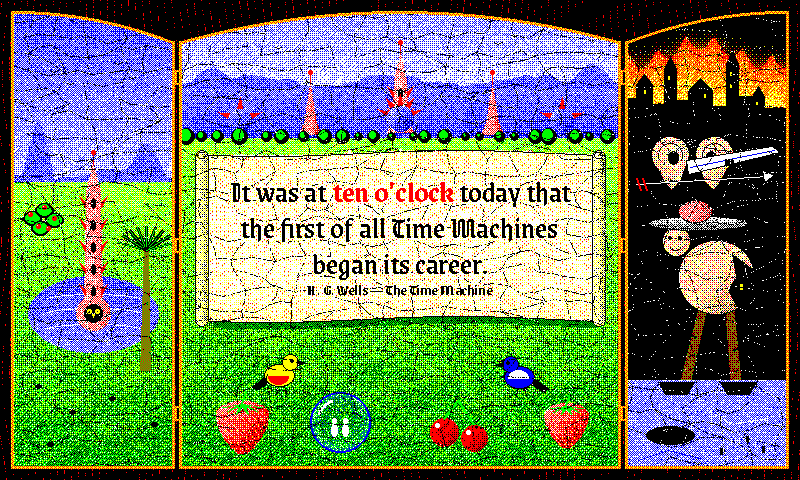
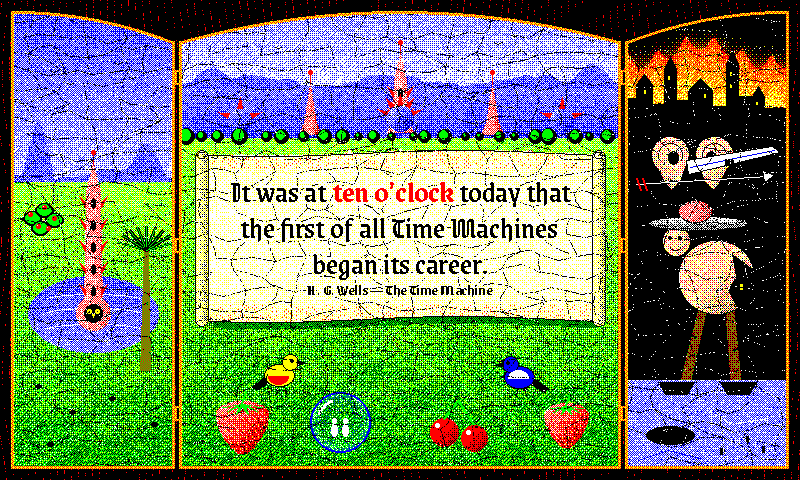
bosch: clamp the jittered rank field and publish it atomically
Review fixes. Unclamped, the +/-9 jitter pushed ranks to -9..72, so
zero-share inks still painted (~4%) and the parchment's edge test fired
on the scroll centreline, flecking 3.4% red behind the rubricated phrase.
The field was also filled in place, so concurrent preview threads could
read it half-built. Clamp to 0..63, build locally, assign once. Adds two
regression tests; golden and preview regenerated.

Claude-Session: https://claude.ai/code/session_01Vsfgqonbcy8RhjzHY72hf4

diff --git a/idle_hours/render_quote.py b/idle_hours/render_quote.py
@@ -24837,10 +24837,10 @@ _BOSCH_CRACK_SEED = 0xB05C
 _BOSCH_JITTER = 9                # ± ranks of positional jitter on the 8x8 tile
 
 
-_BOSCH_RANK_FIELD: list[bytes] = []
+_BOSCH_RANK_FIELD: tuple[bytes, ...] = ()
 
 
-def _bosch_rank_field() -> list[bytes]:
+def _bosch_rank_field() -> tuple[bytes, ...]:
     """The 8x8 Bayer rank plus a seeded jitter, for the whole canvas, once.
 
     The ``bakelite`` moulding recipe — ordered dither with its rank nudged by
@@ -24848,18 +24848,31 @@ def _bosch_rank_field() -> list[bytes]:
     ``Random.randbytes`` field rather than a ``position_noise`` call per
     pixel: this frame reads ~450k ranks per render, and a Python call each
     was a fifth of the render time (``tarot``'s vellum made the same move for
-    the same reason). Stored offset by ``_BOSCH_JITTER`` so it fits in bytes;
-    readers subtract it. Seeded, so the frame stays byte-identical across
+    the same reason). Seeded, so the frame stays byte-identical across
     processes where ``hash()`` would not.
+
+    **Clamped to 0..63.** Unclamped, the jitter pushes ~4% of ranks below 0
+    and ~4% to 64 or above, so a share of exactly 0 still painted its ink
+    (white specks in the meadow's dark foot) and a test like ``rank > 63``
+    fired on the scroll's centreline, flecking the parchment red behind the
+    rubricated phrase. With the clamp, share 0 means none and share 1 means
+    all, which is what every ``_bosch_pick`` call assumes.
+
+    Built into a local and published in one assignment: the curator UI
+    renders previews on concurrent threads, and a list filled in place could
+    be read half-built by a second thread.
     """
-    if not _BOSCH_RANK_FIELD:
+    global _BOSCH_RANK_FIELD
+    field = _BOSCH_RANK_FIELD
+    if not field:
         noise = random.Random(_BOSCH_CRACK_SEED ^ 0x5A5A).randbytes(800 * 480)
-        span = 2 * _BOSCH_JITTER + 1
-        for y in range(480):
-            row = BAYER_8x8[y % 8]
-            base = y * 800
-            _BOSCH_RANK_FIELD.append(bytes(row[x % 8] + noise[base + x] % span for x in range(800)))
-    return _BOSCH_RANK_FIELD
+        span, j = 2 * _BOSCH_JITTER + 1, _BOSCH_JITTER
+        field = tuple(
+            bytes(min(63, max(0, BAYER_8x8[y % 8][x % 8] + noise[y * 800 + x] % span - j)) for x in range(800))
+            for y in range(480)
+        )
+        _BOSCH_RANK_FIELD = field
+    return field
 
 
 def _bosch_pick(rank: int, parts):
@@ -24886,12 +24899,12 @@ def _bosch_paint(tile: Image.Image, mask: Image.Image, shade) -> None:
         return
     px, mp = tile.load(), mask.load()
     ox, oy = getattr(tile, "_bosch_origin", (0, 0))
-    field, j = _bosch_rank_field(), _BOSCH_JITTER
+    field = _bosch_rank_field()
     for y in range(bbox[1], bbox[3]):
         ranks = field[(y + oy) % 480]
         for x in range(bbox[0], bbox[2]):
             if mp[x, y] > 127:
-                ink = shade(x, y, ranks[(x + ox) % 800] - j)
+                ink = shade(x, y, ranks[(x + ox) % 800])
                 if ink is not None:
                     px[x, y] = ink
 
@@ -25002,7 +25015,7 @@ def _bosch_meadow(tile, top: int) -> None:
     white, yellow, green, black = (_bosch_ink(n) for n in ("white", "yellow", "green", "black"))
     px = tile.load()
     ox, oy = getattr(tile, "_bosch_origin", (0, 0))
-    field, j = _bosch_rank_field(), _BOSCH_JITTER
+    field = _bosch_rank_field()
     sx = [math.sin(x * 0.05) for x in range(w)]
     cx = [math.cos(x * 0.05) for x in range(w)]
     span = max(1, h - top)
@@ -25014,7 +25027,7 @@ def _bosch_meadow(tile, top: int) -> None:
         for x in range(w):
             t = base + sx[x] * cy_ + cx[x] * sy_
             t = 0.0 if t < 0.0 else 1.0 if t > 1.0 else t
-            rank = ranks[(x + ox) % 800] - j
+            rank = ranks[(x + ox) % 800]
             c1 = 14.08 * (1 - t)                        # white  0.22 (1 - t)
             c2 = c1 + 21.76 * (1 - t) + 3.84            # yellow 0.34 (1 - t) + 0.06
             if rank < c1:

diff --git a/tests/test_render_quote_themes.py b/tests/test_render_quote_themes.py
@@ -4467,3 +4467,25 @@ class TestBoschFrame:
     def test_bare_row_still_renders(self):
         image = self._render({**self.ROW, "author": "", "title": ""})
         assert distinct_inks(image) <= set(rq.SPECTRA6.values())
+
+    def test_rank_field_is_clamped_and_immutable(self):
+        """Every jittered rank lies in 0..63, so a share of 0 paints nothing
+        and a share of 1 paints everything; and the field is a tuple, built
+        once and published whole (preview threads may race to build it)."""
+        field = rq._bosch_rank_field()
+        assert isinstance(field, tuple) and len(field) == 480
+        assert all(len(row) == 800 for row in field)
+        assert min(min(row) for row in field) == 0 and max(max(row) for row in field) == 63
+        white, green = rq.SPECTRA6["white"], rq.SPECTRA6["green"]
+        assert all(rq._bosch_pick(r, ((white, 0.0), (green, 1))) == green for r in range(64))
+
+    def test_parchment_carries_no_stray_red(self):
+        """Red on the banderole belongs to the rubricated phrase alone: with
+        no phrase matched, the scroll's centre band has no red at all."""
+        row = {**self.ROW, "matched_text": "no such phrase"}
+        image = self._render(row)
+        _, rect = self._lettering(row)
+        x0, y0, x1, y1 = rect
+        mid = (y0 + y1) // 2
+        band = image.crop((x0 + 4, mid - 20, x1 - 4, mid + 20))
+        assert ink_counts(band).get(rq.SPECTRA6["red"], 0) == 0

diff --git a/CLAUDE.md b/CLAUDE.md
@@ -711,7 +711,7 @@ Two of those additions failed on their first cut, in the same direction: **too m
     **The quote is lettered on a phylactery banderole** (`_bosch_paint_scroll`) — the device Bosch wrote on ("Cave cave Deus videt" circles the pupil of the *Seven Deadly Sins* tabletop): a fluttering cream parchment with rolled ends and a cast shadow, sized to its text (the `pride` card rule) and centred on the centre panel, in black Grenze Gotisch with the matched phrase **rubricated** in solid red — which is what red ink was *for* in a fifteenth-century hand, marking the passage not to be missed.
     **Craquelure is the new technique** (`paint_craquelure`, a shared primitive). Every other texture in the renderer is a *ground*; a five-hundred-year-old oil on oak is instead *crazed*, and the net is what says "old painting" before any motif does. It is built as a **graph**, not a per-pixel field: a jittered lattice whose right and down edges are drawn as midpoint-bowed polylines, `drop` of them left out so islands merge into larger irregular blocks, `diagonal` of the cells gaining a corner-to-corner split for the Y-junctions that stop it reading as a grid — connected by construction, which a thresholded noise field is not (the `abyssal` caustics lesson). The cells are wider than tall because oak-panel craquelure runs across the grain of vertical planks. Along the net a positional hash keeps `continuity` of every 8 pixels so the fissures read as fine and broken. **A crack changes polarity with the paint it crosses:** on a light passage it has filled with grime and paints `dark`; on a dark one it has opened to the white chalk ground and paints `light`, but only `light_share` (0.15) of the time, because a chalk line is brighter than a grime line is dark and full strength laid a white net over Hell. **Cracks never cut a letter**: the frame draws the banderole's lettering a second time into an `"L"` mask, and `keep_out` dilates it so a fissure stops short of every stroke — the quote is the clock, and a crack through a glyph is a crack through the time. `TestBoschFrame` pins the lettering byte-identical with and without the crack pass, while requiring the banderole to be crazed away from it.
     **The wing tops are the centre arch halved and mirrored** (`_bosch_arch_tops`). A triptych closes: each wing covers half the centre panel, so its top is half the centre's segmental arch with the apex at the wing's free edge — and opened, that free edge swings outermost, so an open wing is high at the outside and low at the hinge. The wings here are narrower than half the centre (the quote needs the width), so the half-arch is compressed, but the direction is the physical one.
-    **Colour** is a single `BAYER_8x8` read per pixel partitioned into as many inks as the passage needs (`_bosch_pick` — `pride`'s rule), with the rank jittered so a broad sky or meadow lays no lattice (the `bakelite` moulding recipe). The jittered rank field is built **once per process** from a seeded `Random.randbytes` (`_bosch_rank_field`) rather than a `position_noise` call per pixel — ~450k reads a render, and the call was a fifth of the render time (`tarot`'s vellum made the same move); the meadow, every panel's largest passage, is inlined with separable trig. Render ~0.55 s warm. **Hell burns yellow**: red over black is the lowest-contrast pair the panel's inks offer, so the blaze is yellow-hot at the root with only its tips red, blooming a tangerine glow (`paint_neon_mask`'s split glow) into the black above the city — fenced as yellow-dominant, because a red fire measured as a dark smudge on calibrated inks. **No clock surface beyond the phrase**: an altarpiece carries no hour, so `time_str` is `del`-asserted (the `pride` / `nocturne` posture), pinned byte-identical across every time. Surfaces all six inks. Composed at the canonical 800×480 and NEAREST-downsampled (the `metro` convention). Saturation tier `0.5`.)
+    **Colour** is a single `BAYER_8x8` read per pixel partitioned into as many inks as the passage needs (`_bosch_pick` — `pride`'s rule), with the rank jittered so a broad sky or meadow lays no lattice (the `bakelite` moulding recipe). The jittered rank field is built **once per process** from a seeded `Random.randbytes` (`_bosch_rank_field`) rather than a `position_noise` call per pixel — ~450k reads a render, and the call was a fifth of the render time (`tarot`'s vellum made the same move). It is **clamped to 0..63**: unclamped, the jitter put ~4% of ranks either side of the tile, so a share of 0 still painted its ink and the parchment's edge-darkening test fired on the scroll's centreline, flecking red behind the rubricated phrase (a review finding, fenced by `test_parchment_carries_no_stray_red`); and it is built into a local and published whole, since preview threads may race to build it. the meadow, every panel's largest passage, is inlined with separable trig. Render ~0.55 s warm. **Hell burns yellow**: red over black is the lowest-contrast pair the panel's inks offer, so the blaze is yellow-hot at the root with only its tips red, blooming a tangerine glow (`paint_neon_mask`'s split glow) into the black above the city — fenced as yellow-dominant, because a red fire measured as a dark smudge on calibrated inks. **No clock surface beyond the phrase**: an altarpiece carries no hour, so `time_str` is `del`-asserted (the `pride` / `nocturne` posture), pinned byte-identical across every time. Surfaces all six inks. Composed at the canonical 800×480 and NEAREST-downsampled (the `metro` convention). Saturation tier `0.5`.)
 - **Fonts.** Typography is per-theme, and each non-default theme deliberately picks a face from a different type *family* so the rendered frame's silhouette changes with the theme — not just its palette. `THEME_FONTS` maps each `THEMES` entry to a dict with `quote_regular` / `quote_bold` / `ornament` candidate chains, each a list of path strings OR `(path, variation_name)` tuples. The tuple form targets variable fonts — `load_font` calls `set_variation_by_name(name)` after the truetype load, so e.g. the scholar theme picks Regular/Bold instances from a single variable `Bitter-Variable.ttf` (whose default axis instance is Thin — a missing variation call would render near-invisible hairlines on the panel). Every per-theme chain ends at the Playfair / DejaVu defaults so a missing-font install degrades to the default face instead of dropping to the PIL bitmap fallback. System metadata / debug strips always use DejaVu / Noto / Liberation Sans regardless of theme. Install `apt install fonts-noto-core fonts-dejavu-core` if the bundled fonts aren't found. When every TTF candidate is missing, `load_font` logs a one-shot warning to stderr before returning `ImageFont.load_default()` so a misconfigured install surfaces instead of silently producing an 8-pixel bitmap render.
   - `default` and `dark` share the Playfair Display chain (transitional / high-contrast serif; repo-local `idle_hours/fonts/`, then common Pi/Linux paths, with DejaVu Serif / Liberation Serif / Noto Serif as system fallbacks).
   - `scholar` uses **Bitter** — a slab serif; even-contrast blocky terminals read as "academic textbook" and sit visually far from Playfair's display-serif silhouette, Regular body + Bold accent.
